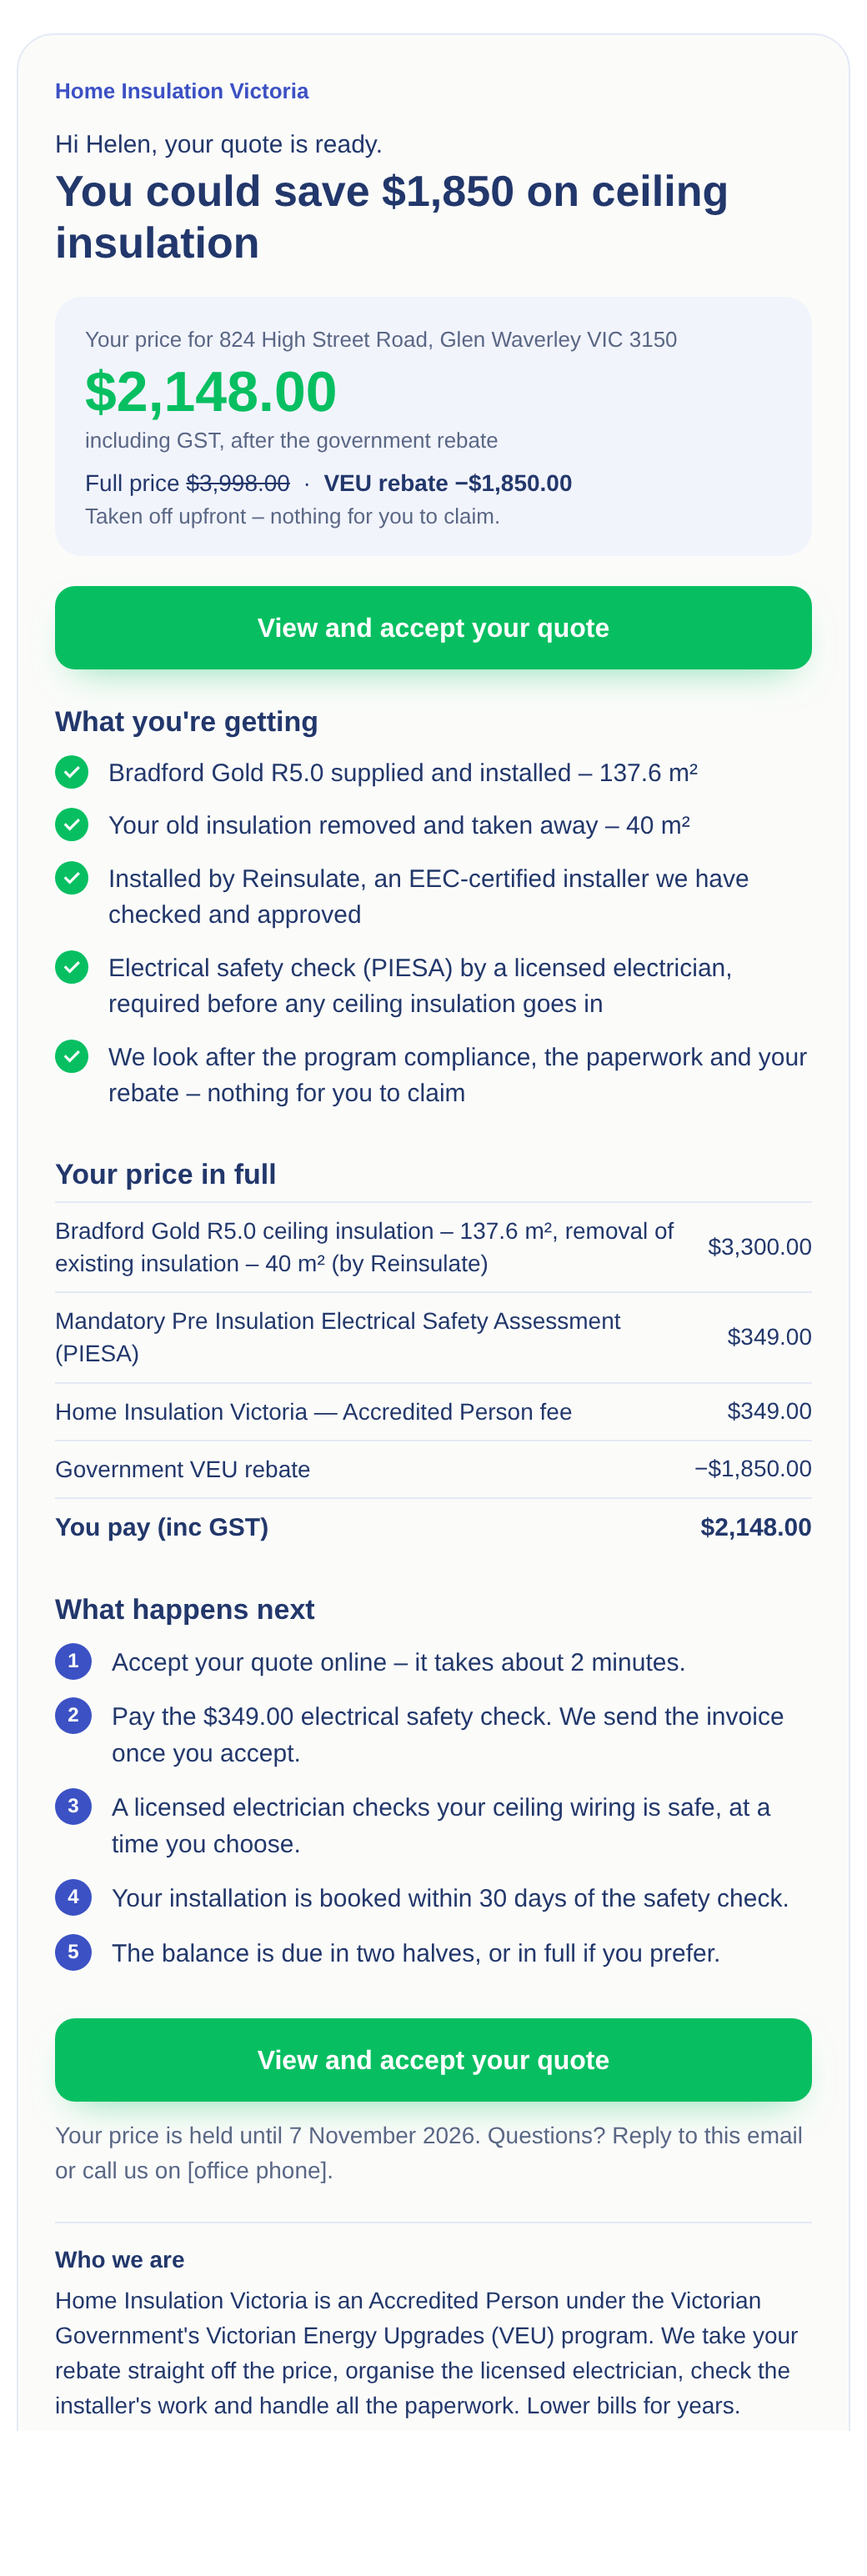
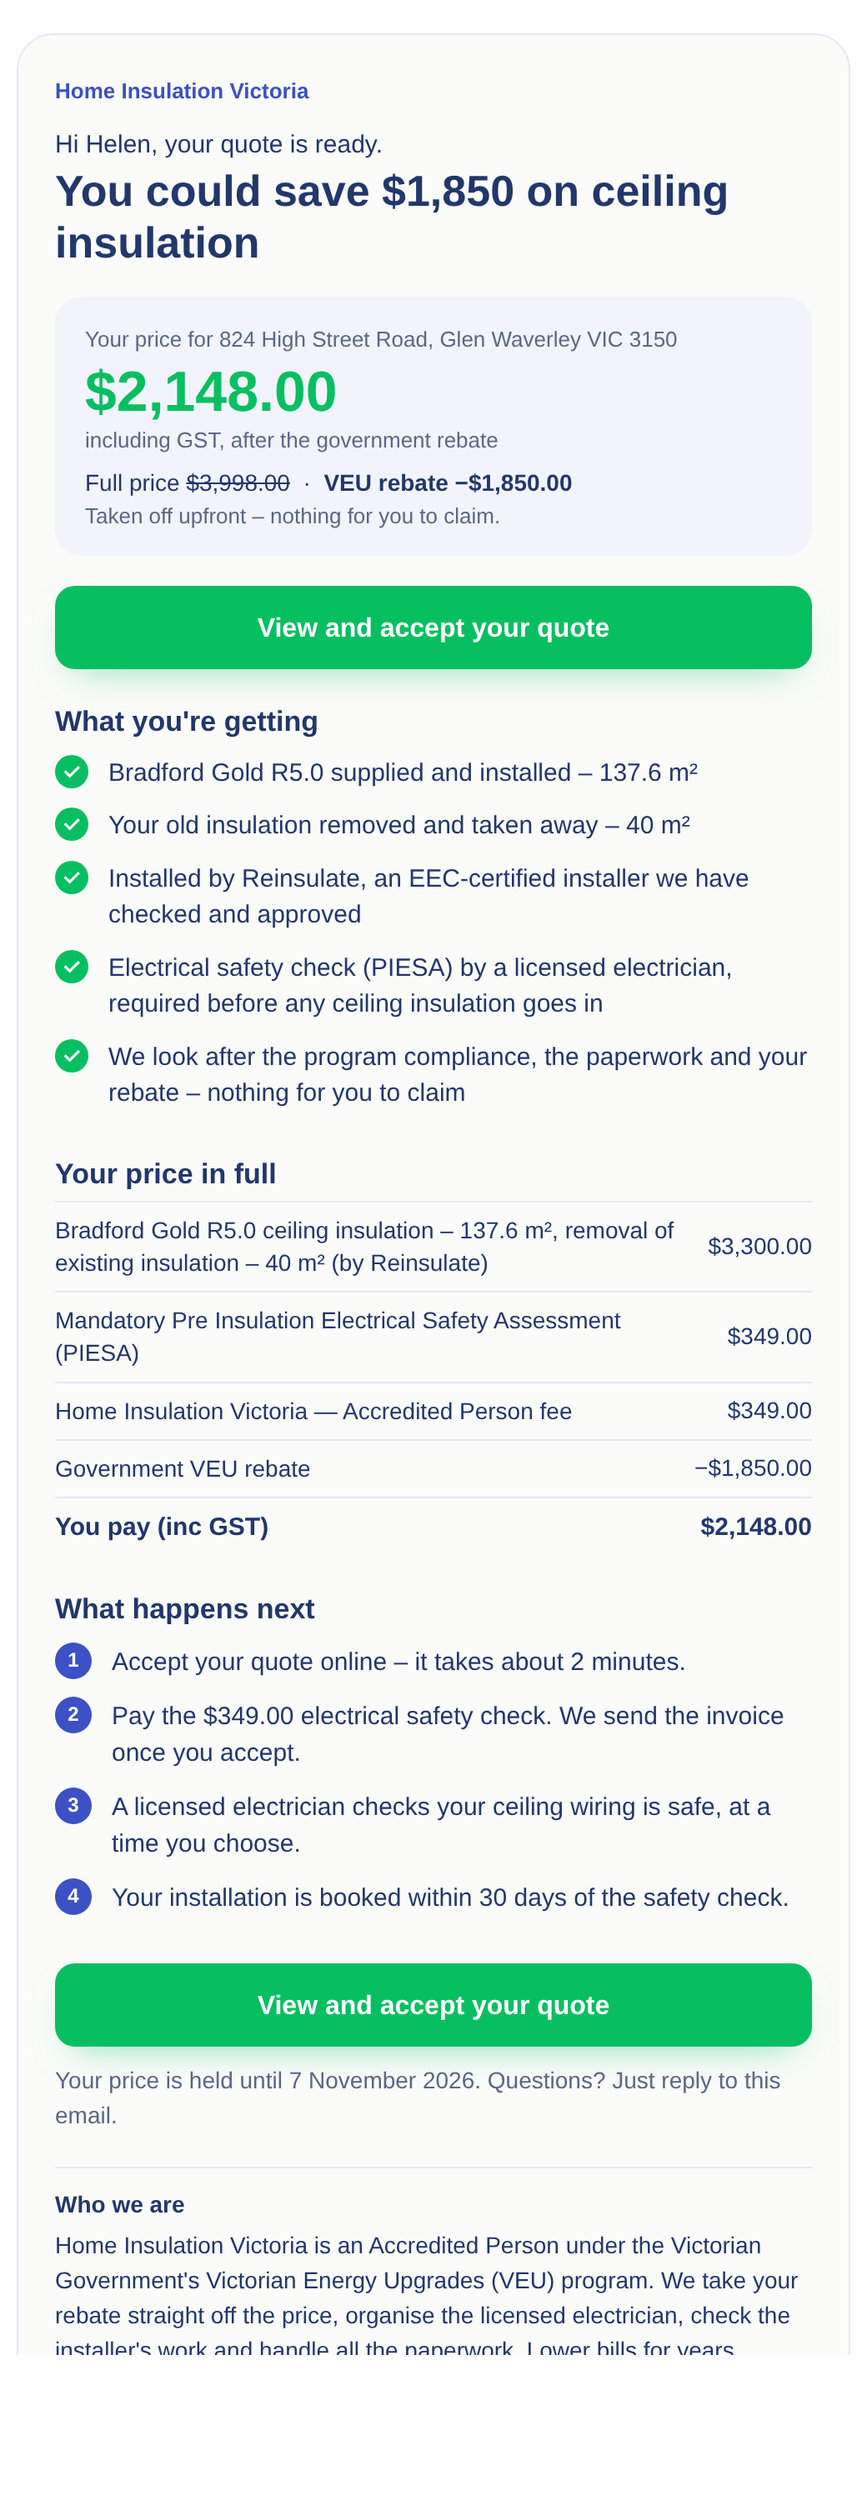
Owner quote email v2 approved by Jo (24 Oct); balance-payment line removed until terms are decided
No phone, 14-day hold, replies to info@. Email details (area, removal, product, installer) are
best-effort: a failed read leaves a detail out instead of stopping the email.

Claude-Session: https://claude.ai/code/session_01NumxevJUuxccpPBAi4gcS9

Changed region(s): [[0.0615, 0.031, 0.9538, 0.961], [0.8, 0.465, 0.9538, 0.62], [0.6154, 0.062, 0.8308, 0.093]]

diff --git a/docs/OWNER_QUOTE_EMAIL_SAMPLE.html b/docs/OWNER_QUOTE_EMAIL_SAMPLE.html
@@ -17,9 +17,9 @@
 <table role="presentation" width="100%" cellpadding="0" cellspacing="0"><tr><td valign="top" style="padding:0 10px 10px 0;width:22px;"><span style="display:inline-block;width:20px;height:20px;line-height:20px;border-radius:10px;background:#07BF61;color:#fff;font-size:13px;font-weight:bold;text-align:center;">&#10003;</span></td><td style="padding:0 0 10px;font-size:15px;line-height:1.45;">Bradford Gold R5.0 supplied and installed – 137.6 m²</td></tr><tr><td valign="top" style="padding:0 10px 10px 0;width:22px;"><span style="display:inline-block;width:20px;height:20px;line-height:20px;border-radius:10px;background:#07BF61;color:#fff;font-size:13px;font-weight:bold;text-align:center;">&#10003;</span></td><td style="padding:0 0 10px;font-size:15px;line-height:1.45;">Your old insulation removed and taken away – 40 m²</td></tr><tr><td valign="top" style="padding:0 10px 10px 0;width:22px;"><span style="display:inline-block;width:20px;height:20px;line-height:20px;border-radius:10px;background:#07BF61;color:#fff;font-size:13px;font-weight:bold;text-align:center;">&#10003;</span></td><td style="padding:0 0 10px;font-size:15px;line-height:1.45;">Installed by Reinsulate, an EEC-certified installer we have checked and approved</td></tr><tr><td valign="top" style="padding:0 10px 10px 0;width:22px;"><span style="display:inline-block;width:20px;height:20px;line-height:20px;border-radius:10px;background:#07BF61;color:#fff;font-size:13px;font-weight:bold;text-align:center;">&#10003;</span></td><td style="padding:0 0 10px;font-size:15px;line-height:1.45;">Electrical safety check (PIESA) by a licensed electrician, required before any ceiling insulation goes in</td></tr><tr><td valign="top" style="padding:0 10px 10px 0;width:22px;"><span style="display:inline-block;width:20px;height:20px;line-height:20px;border-radius:10px;background:#07BF61;color:#fff;font-size:13px;font-weight:bold;text-align:center;">&#10003;</span></td><td style="padding:0 0 10px;font-size:15px;line-height:1.45;">We look after the program compliance, the paperwork and your rebate – nothing for you to claim</td></tr></table>
 <p style="font-size:17px;font-weight:bold;margin:18px 0 6px;">Your price in full</p><table role="presentation" width="100%" cellpadding="0" cellspacing="0" style="border-top:1px solid #E4E9F5;"><tr><td style="padding:7px 0;font-size:14px;line-height:1.4;color:#22376B;border-bottom:1px solid #E4E9F5;">Bradford Gold R5.0 ceiling insulation – 137.6 m², removal of existing insulation – 40 m² (by Reinsulate)</td><td align="right" style="padding:7px 0 7px 12px;font-size:14px;white-space:nowrap;color:#22376B;border-bottom:1px solid #E4E9F5;">$3,300.00</td></tr><tr><td style="padding:7px 0;font-size:14px;line-height:1.4;color:#22376B;border-bottom:1px solid #E4E9F5;">Mandatory Pre Insulation Electrical Safety Assessment (PIESA)</td><td align="right" style="padding:7px 0 7px 12px;font-size:14px;white-space:nowrap;color:#22376B;border-bottom:1px solid #E4E9F5;">$349.00</td></tr><tr><td style="padding:7px 0;font-size:14px;line-height:1.4;color:#22376B;border-bottom:1px solid #E4E9F5;">Home Insulation Victoria — Accredited Person fee</td><td align="right" style="padding:7px 0 7px 12px;font-size:14px;white-space:nowrap;color:#22376B;border-bottom:1px solid #E4E9F5;">$349.00</td></tr><tr><td style="padding:7px 0;font-size:14px;line-height:1.4;color:#22376B;border-bottom:1px solid #E4E9F5;">Government VEU rebate</td><td align="right" style="padding:7px 0 7px 12px;font-size:14px;white-space:nowrap;color:#22376B;border-bottom:1px solid #E4E9F5;">−$1,850.00</td></tr><tr><td style="padding:7px 0;font-size:14px;line-height:1.4;color:#22376B;font-size:15px;"><strong>You pay (inc GST)</strong></td><td align="right" style="padding:7px 0 7px 12px;font-size:14px;white-space:nowrap;color:#22376B;font-size:15px;"><strong>$2,148.00</strong></td></tr></table>
 <p style="font-size:17px;font-weight:bold;margin:22px 0 10px;">What happens next</p>
-<table role="presentation" width="100%" cellpadding="0" cellspacing="0"><tr><td valign="top" style="padding:0 10px 10px 0;width:24px;"><span style="display:inline-block;width:22px;height:22px;line-height:22px;border-radius:11px;background:#3C51C4;color:#fff;font-size:12px;font-weight:bold;text-align:center;">1</span></td><td style="padding:1px 0 10px;font-size:15px;line-height:1.45;">Accept your quote online – it takes about 2 minutes.</td></tr><tr><td valign="top" style="padding:0 10px 10px 0;width:24px;"><span style="display:inline-block;width:22px;height:22px;line-height:22px;border-radius:11px;background:#3C51C4;color:#fff;font-size:12px;font-weight:bold;text-align:center;">2</span></td><td style="padding:1px 0 10px;font-size:15px;line-height:1.45;">Pay the $349.00 electrical safety check. We send the invoice once you accept.</td></tr><tr><td valign="top" style="padding:0 10px 10px 0;width:24px;"><span style="display:inline-block;width:22px;height:22px;line-height:22px;border-radius:11px;background:#3C51C4;color:#fff;font-size:12px;font-weight:bold;text-align:center;">3</span></td><td style="padding:1px 0 10px;font-size:15px;line-height:1.45;">A licensed electrician checks your ceiling wiring is safe, at a time you choose.</td></tr><tr><td valign="top" style="padding:0 10px 10px 0;width:24px;"><span style="display:inline-block;width:22px;height:22px;line-height:22px;border-radius:11px;background:#3C51C4;color:#fff;font-size:12px;font-weight:bold;text-align:center;">4</span></td><td style="padding:1px 0 10px;font-size:15px;line-height:1.45;">Your installation is booked within 30 days of the safety check.</td></tr><tr><td valign="top" style="padding:0 10px 10px 0;width:24px;"><span style="display:inline-block;width:22px;height:22px;line-height:22px;border-radius:11px;background:#3C51C4;color:#fff;font-size:12px;font-weight:bold;text-align:center;">5</span></td><td style="padding:1px 0 10px;font-size:15px;line-height:1.45;">The balance is due in two halves, or in full if you prefer.</td></tr></table>
+<table role="presentation" width="100%" cellpadding="0" cellspacing="0"><tr><td valign="top" style="padding:0 10px 10px 0;width:24px;"><span style="display:inline-block;width:22px;height:22px;line-height:22px;border-radius:11px;background:#3C51C4;color:#fff;font-size:12px;font-weight:bold;text-align:center;">1</span></td><td style="padding:1px 0 10px;font-size:15px;line-height:1.45;">Accept your quote online – it takes about 2 minutes.</td></tr><tr><td valign="top" style="padding:0 10px 10px 0;width:24px;"><span style="display:inline-block;width:22px;height:22px;line-height:22px;border-radius:11px;background:#3C51C4;color:#fff;font-size:12px;font-weight:bold;text-align:center;">2</span></td><td style="padding:1px 0 10px;font-size:15px;line-height:1.45;">Pay the $349.00 electrical safety check. We send the invoice once you accept.</td></tr><tr><td valign="top" style="padding:0 10px 10px 0;width:24px;"><span style="display:inline-block;width:22px;height:22px;line-height:22px;border-radius:11px;background:#3C51C4;color:#fff;font-size:12px;font-weight:bold;text-align:center;">3</span></td><td style="padding:1px 0 10px;font-size:15px;line-height:1.45;">A licensed electrician checks your ceiling wiring is safe, at a time you choose.</td></tr><tr><td valign="top" style="padding:0 10px 10px 0;width:24px;"><span style="display:inline-block;width:22px;height:22px;line-height:22px;border-radius:11px;background:#3C51C4;color:#fff;font-size:12px;font-weight:bold;text-align:center;">4</span></td><td style="padding:1px 0 10px;font-size:15px;line-height:1.45;">Your installation is booked within 30 days of the safety check.</td></tr></table>
 <div style="margin:18px 0 6px;"><!--[if mso]><v:roundrect xmlns:v="urn:schemas-microsoft-com:vml" xmlns:w="urn:schemas-microsoft-com:office:word" href="https://estimate.homeinsulationvictoria.com.au/my-job/SAMPLE?screen=quote" style="height:50px;v-text-anchor:middle;width:470px;" arcsize="24%" stroke="f" fillcolor="#07BF61"><w:anchorlock/><center style="color:#FFFFFF;font-family:Outfit,Avenir Next,Avenir,Century Gothic,Segoe UI,Helvetica,Arial,sans-serif;font-size:16px;font-weight:bold;">View and accept your quote</center></v:roundrect><![endif]--><!--[if !mso]><!--><table role="presentation" width="100%" cellpadding="0" cellspacing="0" border="0" style="width:100%;border-collapse:separate;"><tr><td align="center" bgcolor="#07BF61" style="background-color:#07BF61;border:0;border-radius:12px;mso-padding-alt:15px 18px;box-shadow:0 10px 24px -12px rgba(7,191,97,.55);"><a class="lx-button" href="https://estimate.homeinsulationvictoria.com.au/my-job/SAMPLE?screen=quote" style="display:block;padding:15px 18px;font-family:'Figtree',Arial,Helvetica,sans-serif;color:#FFFFFF;font-size:16px;line-height:20px;font-weight:800;text-decoration:none;border-radius:12px;">View and accept your quote</a></td></tr></table><!--<![endif]--></div>
-<p style="font-size:14px;line-height:1.5;margin:10px 0 0;color:#5A6785;">Your price is held until 7 November 2026. Questions? Reply to this email or call us on [office phone].</p>
+<p style="font-size:14px;line-height:1.5;margin:10px 0 0;color:#5A6785;">Your price is held until 7 November 2026. Questions? Just reply to this email.</p>
 <table role="presentation" width="100%" cellpadding="0" cellspacing="0" style="margin-top:20px;border-top:1px solid #E4E9F5;"><tr><td style="padding-top:14px;">
 <p style="font-size:14px;font-weight:bold;margin:0 0 6px;">Who we are</p>
 <p style="font-size:14px;line-height:1.5;margin:0;color:#22376B;">Home Insulation Victoria is an Accredited Person under the Victorian Government&#39;s Victorian Energy Upgrades (VEU) program. We take your rebate straight off the price, organise the licensed electrician, check the installer&#39;s work and handle all the paperwork. Lower bills for years.</p>

diff --git a/src/lib/quote-ready-notify.server.ts b/src/lib/quote-ready-notify.server.ts
@@ -42,11 +42,13 @@ async function loadOwnerQuoteFacts(jobId: string, quoteId: string, ownerName: st
   const lines = ie ? [] : [...(items ?? [])].sort((a, b) => Number(a.sort ?? 0) - Number(b.sort ?? 0)).map((l) => ({ description: String(l.description ?? ""), lineTotalIncGst: Number(l.line_total_inc_gst) }));
   const address = pe || !prop ? null : fullAddress(prop.address_line, prop.suburb, prop.postcode) || null;
   // Jo 24 Oct: what the owner is getting — area, removal, product and the (approved, so EEC-certified) installer.
-  const [{ data: m }, { data: prod }, { data: asg }] = await Promise.all([
+  // Best-effort like the lines above: a failed read leaves a detail out, never stops the email.
+  const extra = await (async () => Promise.all([
     admin.from("ceiling_measurements").select("measured_area_m2, verified_area_m2, removal_required, removal_m2").eq("job_id", jobId).eq("is_current", true).maybeSingle(),
     admin.from("workflow_events").select("details").eq("job_id", jobId).eq("event_type", "mitti_product_recorded").order("created_at", { ascending: false }).limit(1).maybeSingle(),
     admin.from("job_assignments").select("businesses(name, trading_name, onboarding_status, is_active)").eq("job_id", jobId).eq("role", "installer").eq("active", true).limit(1).maybeSingle(),
-  ]);
+  ]))().catch(() => [{ data: null }, { data: null }, { data: null }] as const);
+  const [{ data: m }, { data: prod }, { data: asg }] = extra as unknown as [{ data: { measured_area_m2: unknown; verified_area_m2: unknown; removal_required: boolean | null; removal_m2: unknown } | null }, { data: { details: unknown } | null }, { data: { businesses: unknown } | null }];
   const biz = (asg?.businesses ?? null) as { name: string | null; trading_name: string | null; onboarding_status: string | null; is_active: boolean | null } | null;
   const area = m ? Number(m.verified_area_m2 ?? m.measured_area_m2) || null : null;
   const product = ((prod?.details as { product?: { option?: string } } | null)?.product?.option ?? null);

diff --git a/src/lib/owner-quote-email.core.ts b/src/lib/owner-quote-email.core.ts
@@ -5,9 +5,10 @@
 import { campaignButton, escape } from "./estimate-email";
 import { aud } from "./workflow";
 
-/** Jo has not approved the final wording yet. Flip only on her written approval. */
-export const OWNER_QUOTE_EMAIL_APPROVED = false as boolean;
-export const OWNER_QUOTE_EMAIL_VERSION = "v2-draft";
+/** Jo approved v2 on 24 Oct 2026 ("really happy with the layout and wording"; no phone; 14 days; replies to
+ *  info@homeinsulationvictoria.com.au). Office Send still needs every delivery guard, incl. customer_comms_enabled. */
+export const OWNER_QUOTE_EMAIL_APPROVED = true as boolean;
+export const OWNER_QUOTE_EMAIL_VERSION = "v2-approved-2026-10-24";
 
 export type OwnerQuoteLine = { description: string; lineTotalIncGst: number };
 export type OwnerQuoteEmailInput = {
@@ -106,7 +107,7 @@ export function renderOwnerQuoteEmail(i: OwnerQuoteEmailInput): {
     `Pay the ${safety ? `${safety} ` : ""}electrical safety check. We send the invoice once you accept.`,
     "A licensed electrician checks your ceiling wiring is safe, at a time you choose.",
     "Your installation is booked within 30 days of the safety check.",
-    "The balance is due in two halves, or in full if you prefer.",
+    // Jo 24 Oct: the installation payment terms are being worked out (deposit rules) — no balance line until decided.
   ];
   const validity = i.validUntil ? `Your price is held until ${formatQuoteValidUntil(i.validUntil)}.` : null;
   const phone = cleanName(i.officePhone);

diff --git a/tests/owner-quote-email.test.ts b/tests/owner-quote-email.test.ts
@@ -102,9 +102,10 @@ test("refuses a bad total or non-https link", () => {
   expect(() => renderOwnerQuoteEmail({ ...base, quoteUrl: "/my-job/tok" })).toThrow();
 });
 
-test("wording is not approved yet", () => {
-  expect(OWNER_QUOTE_EMAIL_APPROVED).toBe(false);
-  expect(OWNER_QUOTE_EMAIL_VERSION).toBe("v2-draft");
+test("Jo approved v2 on 24 Oct; no balance-payment line until the payment terms are decided", () => {
+  expect(OWNER_QUOTE_EMAIL_APPROVED).toBe(true);
+  expect(OWNER_QUOTE_EMAIL_VERSION).toBe("v2-approved-2026-10-24");
+  expect(renderOwnerQuoteEmail(base).text).not.toMatch(/balance|two halves/i);
 });
 
 test("TEST pill only when asked", () => {
